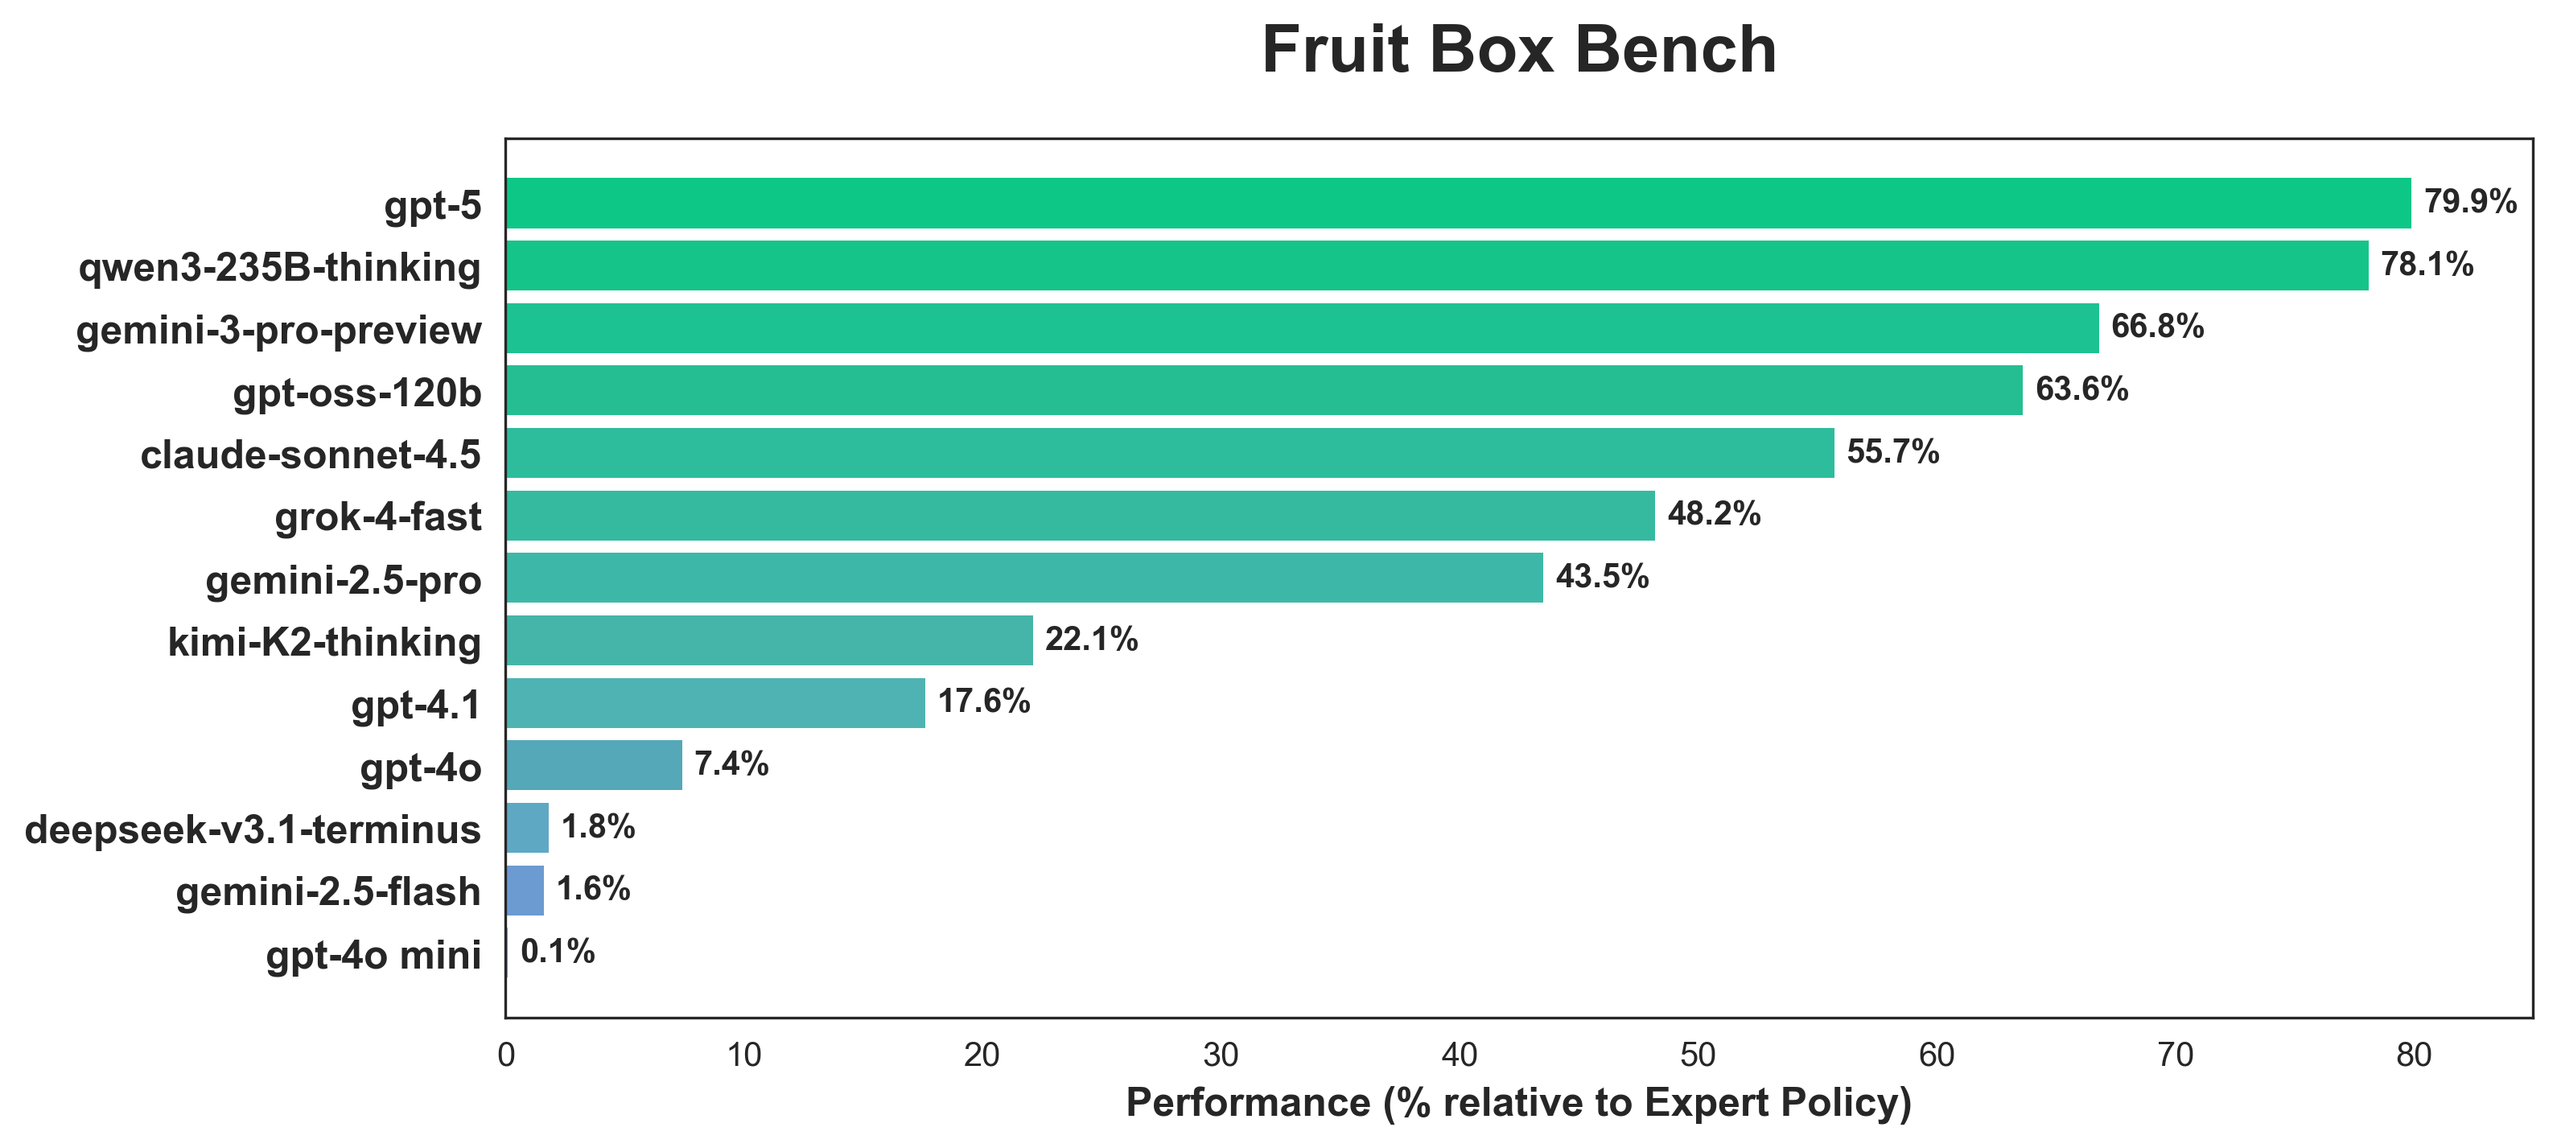
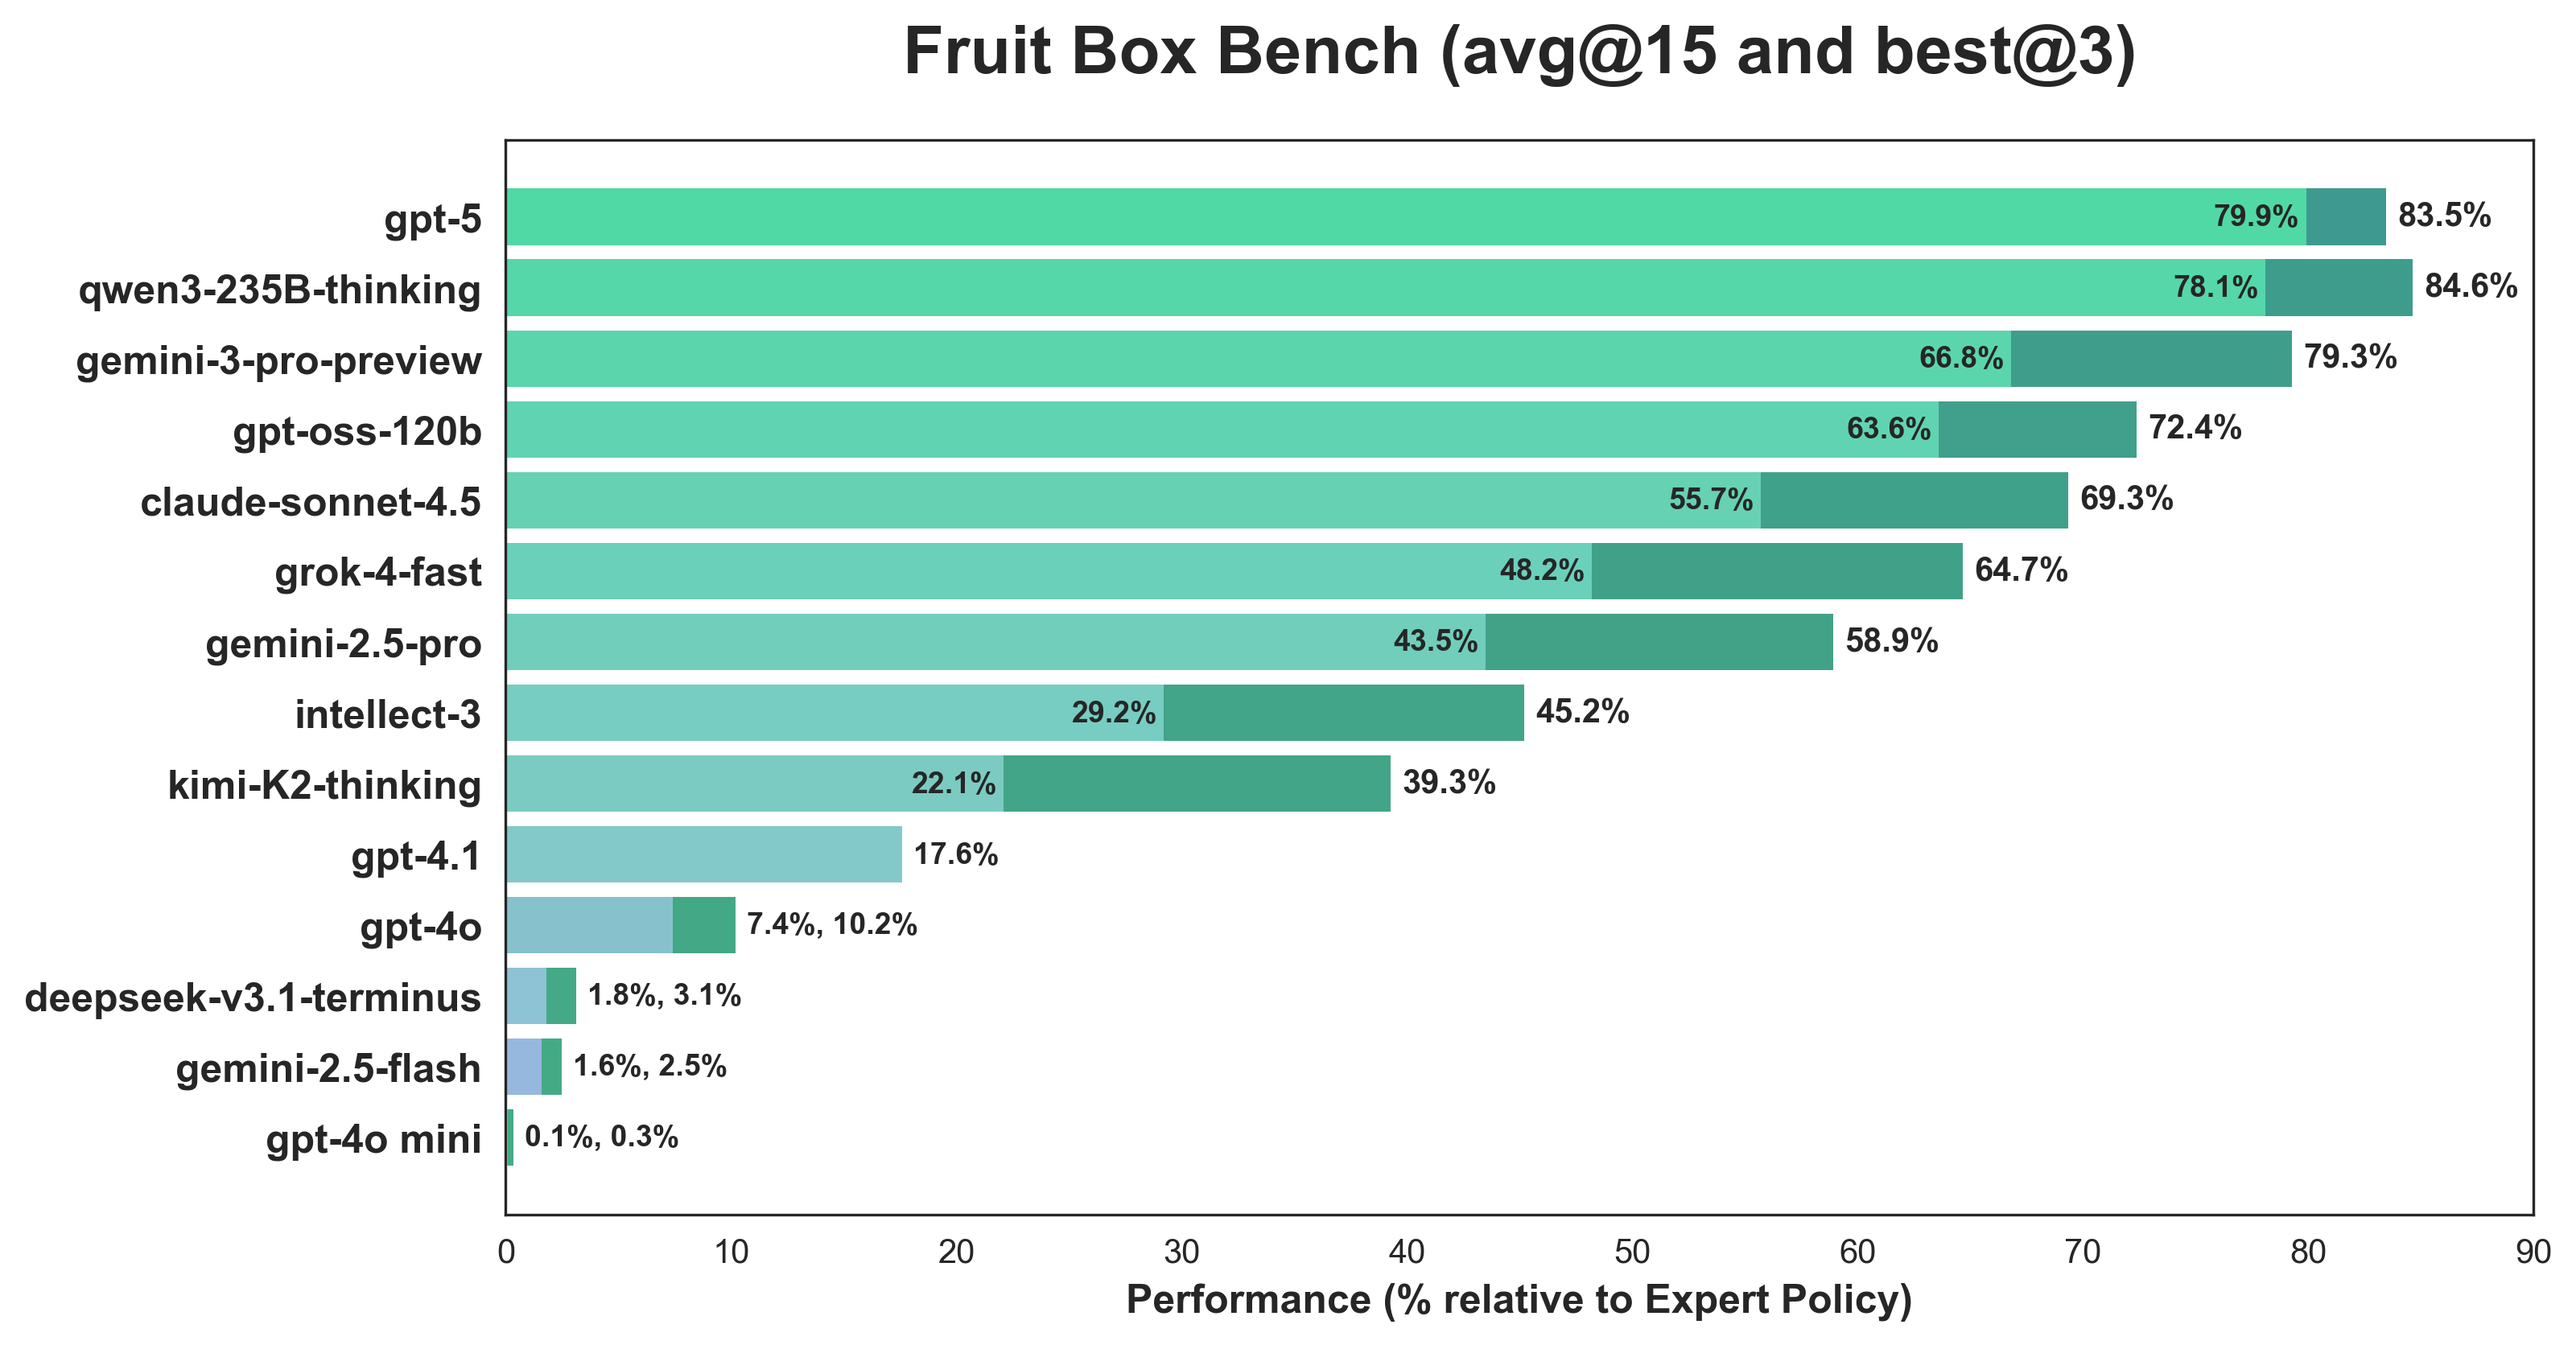
updated images

diff --git a/out_data/analysis/visualize_benchmark.py b/out_data/analysis/visualize_benchmark.py
@@ -3,6 +3,7 @@ import seaborn as sns
 import numpy as np
 import matplotlib.colors as mcolors
 from matplotlib.colors import LinearSegmentedColormap
+from pathlib import Path
 
 sns.set_style("white")
 plt.rcParams['figure.figsize'] = (12, 8)
@@ -16,6 +17,7 @@ data_avg = {
     'claude-sonnet-4.5': 0.557,
     'grok-4-fast': 0.482,
     'gemini-2.5-pro': 0.435,
+    'intellect-3': 0.292,
     'kimi-K2-thinking': 0.221,
     'gpt-4.1': 0.176,
     'gpt-4o': 0.074,
@@ -32,6 +34,7 @@ data_best3 = {
     'claude-sonnet-4.5': 0.693418,
     'grok-4-fast': 0.646795,
     'gemini-2.5-pro': 0.589298,
+    'intellect-3': 0.452,
     'kimi-K2-thinking': 0.392752,
     'gpt-4o': 0.101990,
     'deepseek-v3.1-terminus': 0.031216,
@@ -96,7 +99,7 @@ else:
 
 extension_colors = extension_colors[::-1]
 
-fig, ax = plt.subplots(figsize=(10.5, 4.5))
+fig, ax = plt.subplots(figsize=(10.5, 5.5))
 ax.grid(False)
 
 bars_avg = ax.barh(models, avg_percentages, color=colors, edgecolor='none', height=0.8, alpha=0.7)
@@ -118,7 +121,7 @@ for bar_avg, avg_pct, best3_pct, model in zip(bars_avg, avg_percentages, best3_p
         ax.text(best3_pct + 0.5, bar_center_y,
                 combined_str, ha='left', va='center', fontsize=9, fontweight='bold')
     elif model in ['gpt-5', 'qwen3-235B-thinking', 'gemini-3-pro-preview', 'gpt-oss-120b', 
-                   'claude-sonnet-4.5', 'grok-4-fast', 'gemini-2.5-pro', 'kimi-K2-thinking']:
+                   'claude-sonnet-4.5', 'grok-4-fast', 'gemini-2.5-pro', 'intellect-3', 'kimi-K2-thinking']:
         ax.text(avg_pct - 0.3, bar_center_y,
                 avg_str, ha='right', va='center', fontsize=9, fontweight='bold')
         if best3_pct > avg_pct:
@@ -147,6 +150,6 @@ for label in ax.get_yticklabels():
 
 plt.subplots_adjust(top=0.93, bottom=0.12, left=0.15, right=0.95, hspace=0)
 
-output_path = 'out_data/analysis/fruit_box_benchmark.png'
+output_path = Path(__file__).parent / 'fruit_box_benchmark.png'
 plt.savefig(output_path, dpi=300, bbox_inches='tight')
 plt.show()
